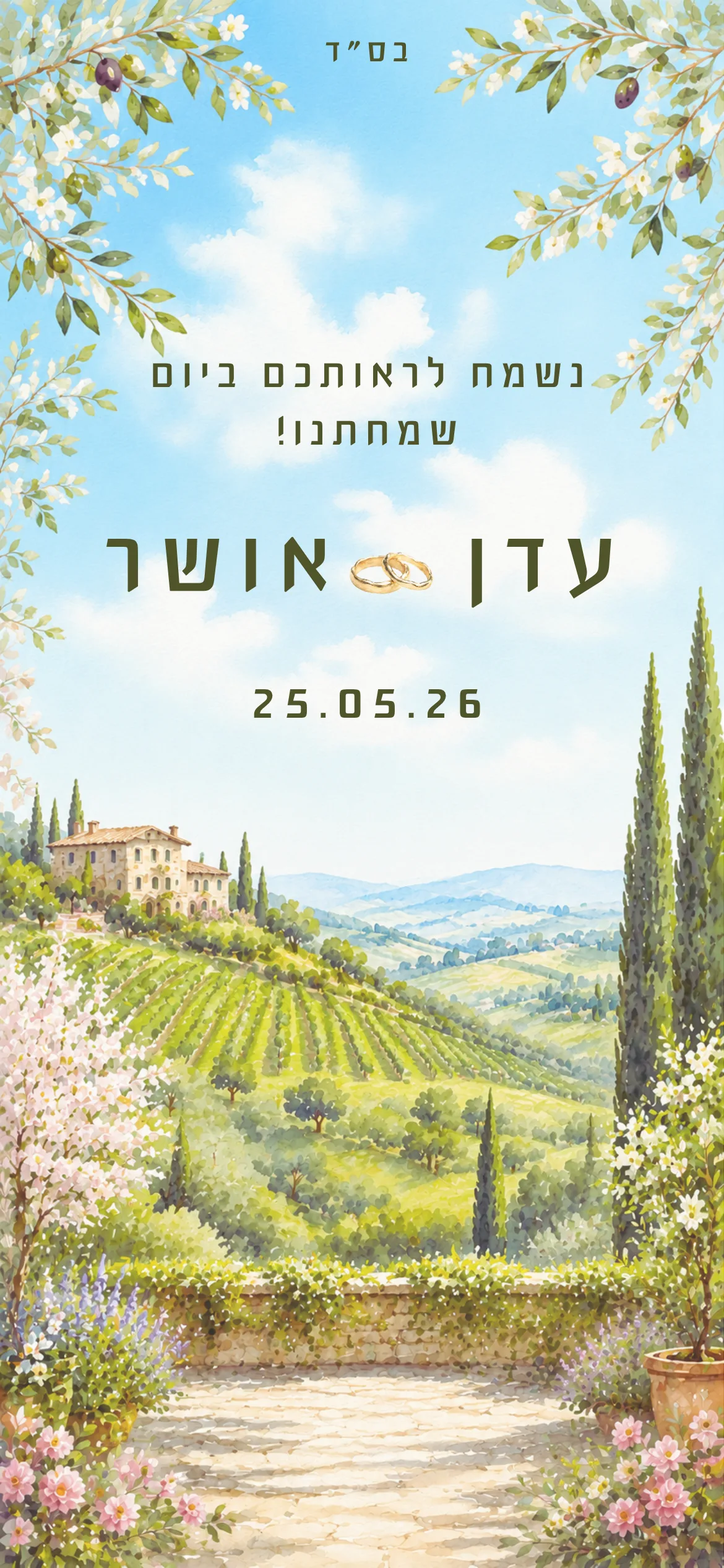
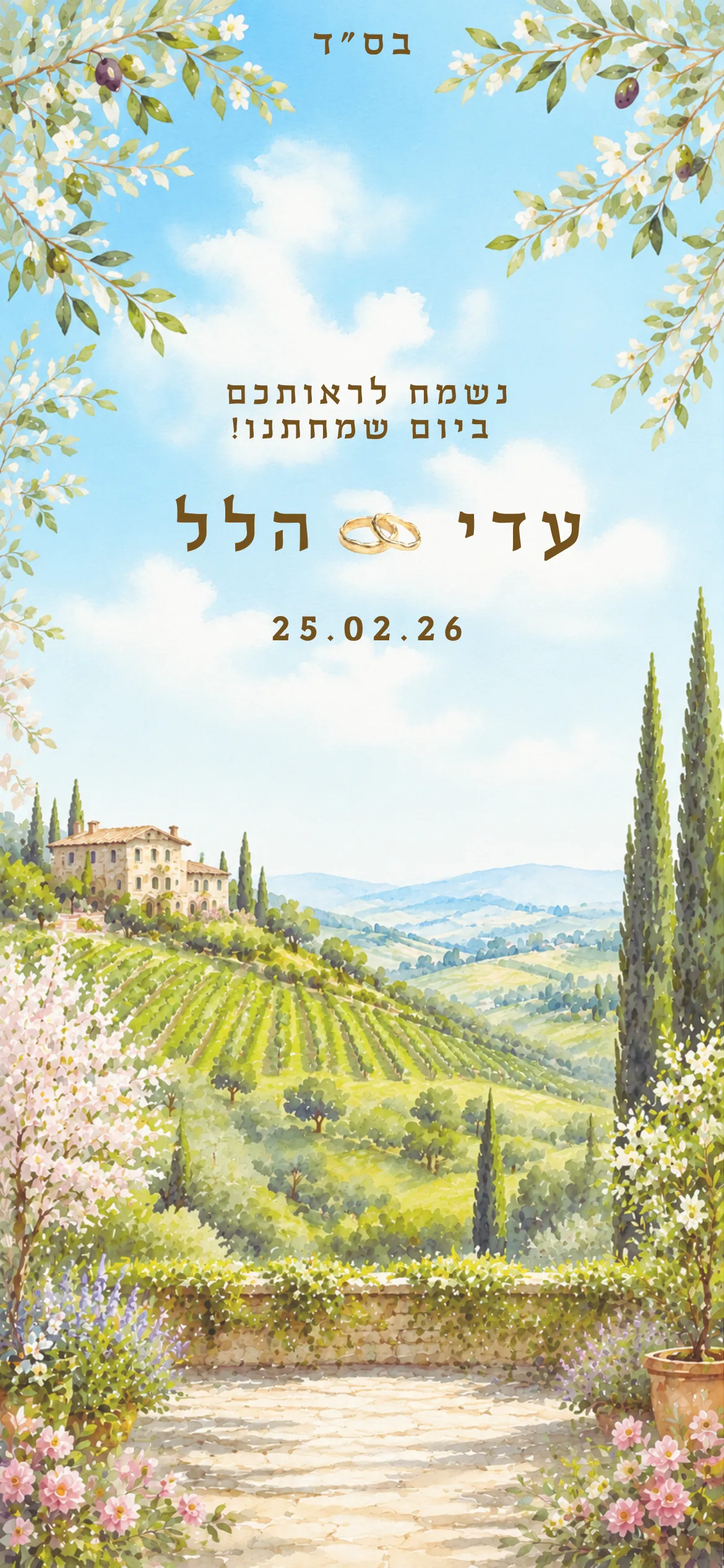
sss

diff --git a/src/App.jsx b/src/App.jsx
@@ -251,38 +251,17 @@ export default function App() {
           </div>
         </section>
 
-        {/* 1 — Details */}
+        {/* 1 — Details (designed image inside the frame; only the icons stay) */}
         <section id="details" className="py-6 px-2.5" style={frameBg}>
-          <div className={`${frameBorder} bg-white/70 px-7 py-12 text-center`}>
-            <p className="text-sm tracking-[0.15em] text-[#7E632E]/70">{t.invitationEyebrow}</p>
-            <h1 className="mt-4 text-4xl font-serif text-[#3E2F28]">{t.couple}</h1>
-
-            <div className="mt-6 space-y-1 text-sm leading-6 text-[#5D4A41]">
-              <p>{t.parent1}</p>
-              <p>{t.parent2}</p>
-            </div>
-
-            <div className="mx-auto my-8 h-px w-16 bg-[#9C7C3C]/30" />
-
-            <div className="space-y-1">
-              <p className="text-xs tracking-[0.15em] text-[#7E632E]/70">{t.whenLabel}</p>
-              <p className="text-lg font-serif text-[#3E2F28]">{t.date}</p>
-              <p className="text-base text-[#5D4A41]">{t.reception}</p>
-            </div>
-
-            <div className="mt-6 space-y-1">
-              <p className="text-xs tracking-[0.15em] text-[#7E632E]/70">{t.whereLabel}</p>
-              <p className="text-lg font-serif text-[#3E2F28]">{t.venueName}</p>
-              <p className="text-base text-[#5D4A41]">{t.venueAddress}</p>
-            </div>
-
-            <div className="mt-7 flex justify-center gap-4">
+          <div className={`relative w-full aspect-[1170/2532] overflow-hidden ${frameBorder}`}>
+            <img src="/details.webp" alt={t.couple} className="absolute inset-0 w-full h-full object-cover" />
+            <div className="absolute inset-x-0 top-[58%] z-10 flex justify-center gap-4">
               <a
                 href={mapsUrl}
                 target="_blank"
                 rel="noreferrer"
                 aria-label={t.navAria}
-                className="flex h-12 w-12 items-center justify-center rounded-full border-[3px] border-[#B1CAA7] bg-white/70 text-[#7E632E] shadow-[0_8px_22px_rgba(124,99,46,0.14)] transition-colors hover:bg-white/85"
+                className="flex h-12 w-12 items-center justify-center rounded-full border-[3px] border-[#B1CAA7] bg-white/80 text-[#7E632E] shadow-[0_8px_22px_rgba(124,99,46,0.22)] transition-colors hover:bg-white"
               >
                 <svg className="h-5 w-5" viewBox="0 0 24 24" fill="none" stroke="currentColor" strokeWidth="2" strokeLinecap="round" strokeLinejoin="round" aria-hidden="true">
                   <path d="M21 10c0 7-9 13-9 13s-9-6-9-13a9 9 0 0 1 18 0z" />
@@ -294,7 +273,7 @@ export default function App() {
                 target="_blank"
                 rel="noreferrer"
                 aria-label={t.calAria}
-                className="flex h-12 w-12 items-center justify-center rounded-full border-[3px] border-[#B1CAA7] bg-white/70 text-[#7E632E] shadow-[0_8px_22px_rgba(124,99,46,0.14)] transition-colors hover:bg-white/85"
+                className="flex h-12 w-12 items-center justify-center rounded-full border-[3px] border-[#B1CAA7] bg-white/80 text-[#7E632E] shadow-[0_8px_22px_rgba(124,99,46,0.22)] transition-colors hover:bg-white"
               >
                 <svg className="h-5 w-5" viewBox="0 0 24 24" fill="none" stroke="currentColor" strokeWidth="2" strokeLinecap="round" strokeLinejoin="round" aria-hidden="true">
                   <rect x="3" y="4" width="18" height="18" rx="2" />
@@ -305,55 +284,11 @@ export default function App() {
           </div>
         </section>
 
-        {/* 2 — Dress code */}
-        <section id="dress-code" className="py-6 px-2.5" style={frameBg}>
-          <div className={`${frameBorder} bg-white/70 px-7 py-12 text-center`}>
-            <p className="text-xs tracking-[0.15em] text-[#7E632E]/70">{t.dressEyebrow}</p>
-            <h2 className="mt-3 text-3xl font-serif text-[#3E2F28]">{t.dressTitle}</h2>
-            <p className="mx-auto mt-4 max-w-[28rem] text-base leading-7 text-[#5D4A41]">{t.dressText}</p>
-            <div className="mt-7 flex justify-center gap-3">
-              {['#7E632E', '#B1CAA7', '#E7DACC', '#3E2F28'].map((c) => (
-                <span
-                  key={c}
-                  className="h-9 w-9 rounded-full border border-black/10 shadow-inner"
-                  style={{ backgroundColor: c }}
-                  aria-hidden="true"
-                />
-              ))}
-            </div>
-          </div>
-        </section>
-
-        {/* 3 — Timeline */}
-        <section id="timeline" className="py-6 px-2.5" style={frameBg}>
-          <div className={`${frameBorder} bg-white/70 px-7 py-12`}>
-            <div className="text-center">
-              <p className="text-xs tracking-[0.15em] text-[#7E632E]/70">{t.timelineEyebrow}</p>
-              <h2 className="mt-3 text-3xl font-serif text-[#3E2F28]">{t.timelineTitle}</h2>
-            </div>
-
-            <ol className={`relative mx-auto mt-9 max-w-[24rem] ${isRtl ? 'border-r-2 pr-7' : 'border-l-2 pl-7'} border-[#9C7C3C]/25`}>
-              {t.timeline.map((item) => (
-                <li key={item.name} className="relative mb-7 last:mb-0">
-                  <span className={`absolute ${isRtl ? '-right-[37px]' : '-left-[37px]'} top-1 flex h-4 w-4 items-center justify-center rounded-full border-2 border-[#B1CAA7] bg-white`}>
-                    <span className="h-1.5 w-1.5 rounded-full bg-[#7E632E]" />
-                  </span>
-                  <p className="text-sm font-semibold tracking-wide text-[#7E632E]">{item.time}</p>
-                  <p className="text-lg font-serif text-[#3E2F28]">{item.name}</p>
-                </li>
-              ))}
-            </ol>
-          </div>
-        </section>
-
-        {/* 4 — RSVP */}
+        {/* 2 — RSVP (designed image inside the frame; only the fields stay) */}
         <section ref={rsvpRef} id="rsvp" className="py-6 px-2.5" style={frameBg}>
-          <div className={`${frameBorder} bg-white/70 px-7 py-12 text-center`}>
-            <p className="text-xs tracking-[0.15em] text-[#7E632E]/70">{t.rsvpEyebrow}</p>
-            <h2 className="mt-3 text-3xl font-serif text-[#3E2F28]">{t.rsvpTitle}</h2>
-            <p className="mx-auto mt-4 max-w-[28rem] text-base leading-7 text-[#5D4A41]">{t.rsvpText}</p>
-
-            <form onSubmit={handleRsvp} className={`mx-auto mt-7 grid max-w-[420px] gap-4 ${isRtl ? 'text-right' : 'text-left'}`}>
+          <div className={`relative w-full aspect-[1170/2532] overflow-hidden ${frameBorder}`}>
+            <img src="/rsvp.webp" alt="" aria-hidden="true" className="absolute inset-0 w-full h-full object-cover" />
+            <form onSubmit={handleRsvp} className={`absolute inset-x-0 top-[17%] z-10 mx-auto grid w-full max-w-[340px] gap-3.5 px-7 ${isRtl ? 'text-right' : 'text-left'}`}>
               <label className="block">
                 <span className="text-xs tracking-[0.1em] text-[#7E632E]">{t.nameLabel}</span>
                 <input
@@ -362,7 +297,7 @@ export default function App() {
                   onChange={updateField('name')}
                   required
                   placeholder={t.namePlaceholder}
-                  className="mt-1 w-full rounded-2xl border border-[#E7DACC] bg-[#FBF6F1] px-4 py-3 text-base text-[#3E2F28] placeholder:text-[#5D4A41]/40 outline-none transition-colors focus:border-[#B1CAA7]"
+                  className="mt-1 w-full rounded-2xl border border-[#7E632E]/45 bg-transparent px-4 py-3 text-base text-[#3E2F28] placeholder:text-[#5D4A41]/40 outline-none transition-colors focus:border-[#B1CAA7]"
                 />
               </label>
 
@@ -375,7 +310,7 @@ export default function App() {
                   value={form.guests}
                   onChange={updateField('guests')}
                   required
-                  className="mt-1 w-full rounded-2xl border border-[#E7DACC] bg-[#FBF6F1] px-4 py-3 text-base text-[#3E2F28] outline-none transition-colors focus:border-[#B1CAA7]"
+                  className="mt-1 w-full rounded-2xl border border-[#7E632E]/45 bg-transparent px-4 py-3 text-base text-[#3E2F28] outline-none transition-colors focus:border-[#B1CAA7]"
                 />
               </label>
 
@@ -387,7 +322,7 @@ export default function App() {
                   onChange={updateField('phone')}
                   required
                   placeholder={t.phonePlaceholder}
-                  className="mt-1 w-full rounded-2xl border border-[#E7DACC] bg-[#FBF6F1] px-4 py-3 text-base text-[#3E2F28] placeholder:text-[#5D4A41]/40 outline-none transition-colors focus:border-[#B1CAA7]"
+                  className="mt-1 w-full rounded-2xl border border-[#7E632E]/45 bg-transparent px-4 py-3 text-base text-[#3E2F28] placeholder:text-[#5D4A41]/40 outline-none transition-colors focus:border-[#B1CAA7]"
                 />
               </label>
 
@@ -398,19 +333,19 @@ export default function App() {
                   value={form.message}
                   onChange={updateField('message')}
                   placeholder={t.messagePlaceholder}
-                  className="mt-1 w-full resize-none rounded-2xl border border-[#E7DACC] bg-[#FBF6F1] px-4 py-3 text-base text-[#3E2F28] placeholder:text-[#5D4A41]/40 outline-none transition-colors focus:border-[#B1CAA7]"
+                  className="mt-1 w-full resize-none rounded-2xl border border-[#7E632E]/45 bg-transparent px-4 py-3 text-base text-[#3E2F28] placeholder:text-[#5D4A41]/40 outline-none transition-colors focus:border-[#B1CAA7]"
                 />
               </label>
 
               <button
                 type="submit"
-                className="mt-2 rounded-full border-[3px] border-[#B1CAA7] bg-white/70 px-6 py-3 text-sm tracking-[0.1em] text-[#7E632E] shadow-[0_8px_22px_rgba(124,99,46,0.14)] transition-colors hover:bg-white/85"
+                className="mt-1 rounded-full border-[3px] border-[#B1CAA7] bg-white/85 px-6 py-3 text-sm tracking-[0.1em] text-[#7E632E] shadow-[0_8px_22px_rgba(124,99,46,0.14)] transition-colors hover:bg-white"
               >
                 {t.submit}
               </button>
 
               {sent ? (
-                <p className="text-center text-sm text-[#7E632E]">{t.thanks}</p>
+                <p className="text-center text-sm font-semibold text-[#7E632E]">{t.thanks}</p>
               ) : null}
             </form>
           </div>
@@ -472,9 +407,9 @@ export default function App() {
         type="button"
         onClick={toggleLang}
         aria-label={lang === 'he' ? 'Switch to English' : 'החלפה לעברית'}
-        className="fixed top-4 right-4 z-[60] flex h-10 w-10 items-center justify-center rounded-full border border-[#9C7C3C]/40 bg-white/85 text-xl shadow-[0_4px_14px_rgba(124,99,46,0.18)] transition-colors hover:bg-white"
+        className="fixed top-4 right-4 z-[60] text-2xl leading-none transition-transform hover:scale-110"
       >
-        <span className="leading-none" aria-hidden="true">{t.switchFlag}</span>
+        <span aria-hidden="true">{t.switchFlag}</span>
       </button>
 
       {started ? (

diff --git a/index.html b/index.html
@@ -7,7 +7,7 @@
   <meta name="theme-color" content="#F6F4ED" />
   <link rel="preconnect" href="https://fonts.googleapis.com" />
   <link rel="preconnect" href="https://fonts.gstatic.com" crossorigin />
-  <link href="https://fonts.googleapis.com/css2?family=Alef:wght@400;700&family=Bona+Nova:ital,wght@0,400;0,700;1,400&family=Fredoka:wght@300..700&family=Google+Sans:ital,opsz,wght@0,17..18,400..700;1,17..18,400..700&family=Playpen+Sans+Hebrew:wght@100..800&family=Suez+One&display=swap" rel="stylesheet" />
+  <link href="https://fonts.googleapis.com/css2?family=Alef:wght@400;700&family=Assistant:wght@200..800&family=Bona+Nova:ital,wght@0,400;0,700;1,400&family=Frank+Ruhl+Libre:wght@300..900&family=Fredoka:wght@300..700&family=Google+Sans:ital,opsz,wght@0,17..18,400..700;1,17..18,400..700&family=Playpen+Sans+Hebrew:wght@100..800&family=Suez+One&display=swap" rel="stylesheet" />
 </head>
 <body>
   <div id="root"></div>

diff --git a/tailwind.config.js b/tailwind.config.js
@@ -33,8 +33,8 @@ export default {
       fontFamily: {
         display: ['Fredoka', 'system-ui', 'sans-serif'],
         heading: ['Suez One', 'system-ui', 'sans-serif'],
-        serif: ['Bona Nova', 'Georgia', 'serif'],
-        sans: ['Alef', 'Google Sans', 'system-ui', 'sans-serif'],
+        serif: ['Frank Ruhl Libre', 'Bona Nova', 'Georgia', 'serif'],
+        sans: ['Assistant', 'Alef', 'Google Sans', 'system-ui', 'sans-serif'],
         handwritten: ['Playpen Sans Hebrew', 'cursive'],
         fredoka: ['Fredoka', 'sans-serif'],
         alef: ['Alef', 'sans-serif'],
